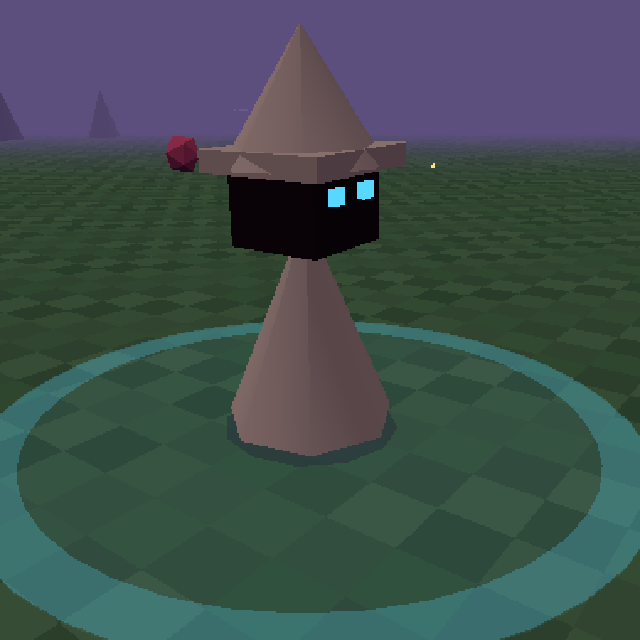
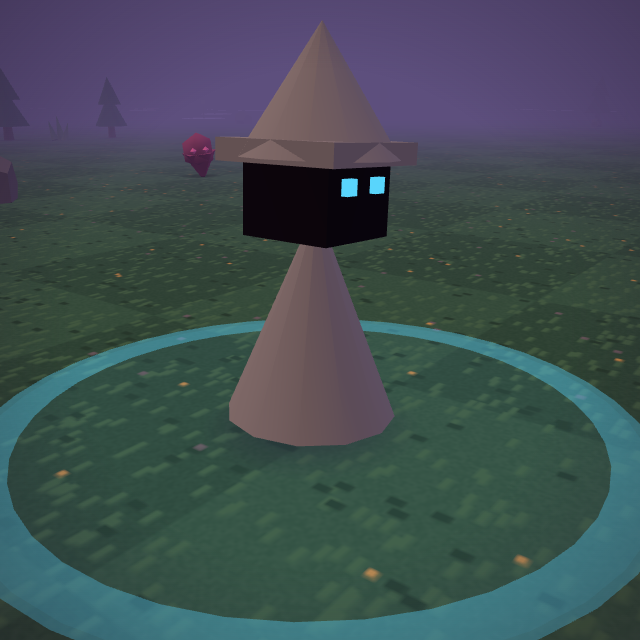
Consigne les mesures de la phase 9 dans les portes
Claude-Session: https://claude.ai/code/session_019HFKrdLTH4im3Soc8Qo7e2

diff --git a/docs/GATES.md b/docs/GATES.md
@@ -13,6 +13,7 @@ Une ligne par phase. Une phase est franchie quand toutes ses mesures sont consig
 | 6 — Personnages  | **franchie** | 3 nov. 2026 | [#13](https://github.com/jimmyhag/ruee-nocturne/pull/13) | 9 personnages, 100 runs average seed 42 (référence Éclaireuse p50 7:52, fenêtre 4:52–10:52, morts < 3 min ≤ 15 %) : Bûcheron 10:13 · Sorcière 10:52 · Veilleuse 6:05 · Braconnier 8:57 · Sapeur 10:01 · Feu follet 5:59 · Revenante 10:50 · Colporteur 10:17 ; morts 3–13 % · nouveau joueur : Veilleuse achetée au **2e run** (cible < 5) · défis (greedy, 200 runs) : Intouchable 48 % · Marathon 59 % · Métamorphe 42 % · bench et draw calls inchangés                                                                                                                                                                                      | `shots/*-personnages.png`, `shots/*-feufollet.png`                                       |
 | 7 — Identité     | **franchie** | 3 nov. 2026 | [#14](https://github.com/jimmyhag/ruee-nocturne/pull/14) | draw calls **20** (≤ 40) · tris **87 k** à 400 ennemis (< 150 k) · bench p50 0,30 ms, p95 0,49 ms (inchangé) · Vitest 249 · e2e 40 · chunk principal 37 ko gz (three toujours hors du chunk) · fps téléphone : non mesuré (merge sur décision de Jimmy le 3 nov. 2026, à relever sur le live 1.2.0 avec `docs/DEVICES.md`)                                                                                                                                                                                                                                                                                                                      | `docs/captures/phase-7/portrait-*.png`, `ennemi-*.png`, `docs/store/*.png`               |
 | 8 — Progression  | **franchie** | 3 nov. 2026 | [#16](https://github.com/jimmyhag/ruee-nocturne/pull/16) | nu (Éclaireuse, 100 runs, seeds 42/43) : survie p50 **5:29 / 5:31** (9:52 en 1.2.0 ; cible 5–7), fin atteinte 0 %, morts < 3 min 13–15 %, or p50 615–652 (3 premiers paliers) · maxé : p50 **15:31 / 15:33** (cible 13–16), fin atteinte 4–5 % · 9 personnages maxés entre 13:23 et 15:52 (± 3 min) ; nus entre 4:49 et 10:52 (les personnages débloqués tard partent plus forts, décision ci-dessous) · CI 200 runs : nu 5:28, maxé 15:37, 6 % de fins · 1.3.1 (relecture) : escalier 5:29 / 8:06 / 11:05 / 13:25 / 15:16, fin 4 % · Vitest 249 · e2e 42 · merge sur décision de Jimmy le 3 nov. 2026 (ressenti téléphone à venir sur le live) | `shots/*-boutique.png`                                                                   |
+| 9 — Rendu net    | **en cours** | 3 nov. 2026 | PR à venir                                               | rendu net par défaut (1280×720 sur PC, ≤ 1600 px de haut, DPR ≤ 2) avec MSAA · draw calls **21** (≤ 40) · tris **92 k** (< 150 k) à 400 ennemis · repli automatique vérifié par e2e (2 → 1 → 0 en 12 s de frames à 40 ms) · Vitest 250 · e2e 46 · Lighthouse et fps téléphone : voir mesures                                                                                                                                                                                                                                                                                                                                                    | `shots/*-jeu-3min.png` (net) vs `*-jeu-3min-pixel.png`, portraits et bestiaire régénérés |
 
 ## Phase 0 — mesures détaillées (2 nov. 2026, PC de Jimmy, Windows 11)
 
@@ -231,6 +232,28 @@ Décisions de la phase :
 - **Une seule Réanimation** : deux valaient à elles seules 5:11 → 13:18.
 
 Relecture `balance-playtester` (après la fusion de la PR #16, appliquée en 1.3.1) : troisième seed (44) conforme (nu 6:02, maxé 15:00, fin 2 % au plancher de variance à 100 runs) ; bot `greedy` : nu 10:24 (+4:55 sur `average`, marge de maîtrise), défis atteignables dans les deux profils (Intouchable 33 / 62 %, Marathon 43 / 74 %, Métamorphe 29 / 49 %). Falaise résiduelle pointée et mesurée : la Réanimation à 200 or valait +4:04 à elle seule (5:29 → 9:33) et 4 paliers collaient au maxé (14:38 vs 15:31), le plateau 7–12 min subsistant pour qui avait passé 7:00. Corrections retenues : `REVIVE.hpFrac` 0,5 → 0,25 et `invul` 2 → 1 s ; milieu de partie `hpScale` /100 → /70 et `rate` /150 → /120. Escalier après correction (seed 42, 100 runs) : **0 palier 5:29 · Réanimation seule 8:06 · 2 paliers 11:05 · 4 paliers 13:25** · **maxé 15:16, fin atteinte 4 %** (200 runs, toutes cibles cochées). Non retenu : Sorcière `hpMul` 0,5 (nue 10:06 → 8:17) tant que Jimmy n'a pas tranché le départ des personnages débloqués tard ; Bûcheron, Colporteur et Revenante tiennent leur avance d'un niveau d'arme ou d'une seconde arme (binaire : Lames 1 les ramène à 4:20–5:15 avec 32 % de morts avant 3 min), pas des PV (−30 PV = −1:14). Remarque de méthode : `kills@10` ≈ 1 510 partout (borné par le spawn, le bot tue tout), la variance inter-builds est triviale ; la cause de mort « brute » est sur-attribuée (ennemi le plus proche, grand rayon).
+
+## Phase 9 — mesures détaillées (3 nov. 2026, conteneur Linux, Chromium SwiftShader)
+
+Porte PLAN.md §5 : draw calls ≤ 40 et triangles ≤ 150 k à 400 ennemis en net ; repli automatique vérifié par test e2e ; Lighthouse inchangé ; téléphone de Jimmy : p95 ≤ 16,7 ms en niveau 2 à 400 ennemis, sinon repli en < 10 s avec ≥ 30 fps ; captures nettes validées par Jimmy.
+
+| Mesure                           | Valeur                                                                                                                                                                                     | Comment                                    |
+| -------------------------------- | ------------------------------------------------------------------------------------------------------------------------------------------------------------------------------------------ | ------------------------------------------ |
+| Résolution interne               | PC 1280×720 → **1280×720** (était 676×380) ; téléphone 390×844 DPR 3 → **780×1688** (DPR plafonné à 2 ; était 317×539) ; niveau 1 ×0,75 ; niveau 0 = ancien rendu                          | `e2e/quality.spec.ts`, onglet perf (`res`) |
+| Rendu à 400 ennemis              | draw calls **20 → 21** (ombres d'arbres instanciées ; les ombres des ennemis réutilisent le mesh des Volants, cap 520) · triangles **87 k → 92 k** (12 segments sur le joueur et les boss) | `e2e/stress.spec.ts`                       |
+| Repli automatique                | frames simulées à 40 ms (`debug.slowFrames`) : niveau 2 → 1 en ≈ 6 s, → 0 en ≈ 12 s ; aucun repli en mode `net`                                                                            | `e2e/quality.spec.ts`                      |
+| SwiftShader (CI)                 | 8 fps à 1280×720 (15 en pixel) : le test de fumée passe en pixel, les captures restent nettes ; durée de la suite 46 tests ≈ 10 min                                                        | `e2e/smoke.spec.ts`                        |
+| Lighthouse mobile (médiane de 3) | à consigner                                                                                                                                                                                | `npm run lh`                               |
+| Tests                            | **250 Vitest** (+1 réglage), **46 e2e** (+4 : qualité net/pixel et repli, sur deux projets)                                                                                                | `npm test`, `npm run test:e2e`             |
+| Téléphone de Jimmy               | **à mesurer** sur la preview : `?debug=1&stress=400`, onglet perf : `rendu niv`, `res`, `frame p95` ; dire si « Rendu allégé » s'est affiché                                               | protocole `docs/DEVICES.md`                |
+
+Décisions de la phase :
+
+- **MSAA toujours actif** (`antialias: true` à la création du renderer, impossible à changer après) : quasi gratuit sur les GPU mobiles à tuiles ; en mode pixel, l'agrandissement CSS garde les bords nets.
+- **Repli sur fenêtres de temps réel** (2 s) plutôt que sur 120 frames : à 8 fps, 360 frames auraient pris 45 s ; le seuil (p95 > 24 ms ≈ 40 fps) pendant 3 fenêtres évite de réagir à un pic isolé (compilation de shader, bannière de boss). Jamais de remontée en cours de run : pas de yo-yo. Le niveau n'est pas mémorisé dans la sauvegarde (un autre jour, l'appareil peut être moins chargé).
+- **Sol lissé mais apaisé** : le motif 128 px agrandi à 512 px donnait un bruit fin et dense à la résolution native ; en net, 1,5× moins de mouchetis par unité, plus gros et moins contrastés.
+- **Pas de shadow map ni de bloom** (option écartée par Jimmy) : ombres douces = plan à texture radiale, instancié, +1 appel pour les arbres, 0 pour les ennemis.
+- **Détail 12 segments** seulement sur ce qui n'est pas instancié en masse (joueur, boss) : les ennemis de masse gardent 5 segments, invisibles à cette taille.
 
 ## Décisions prises en cours de route
 
